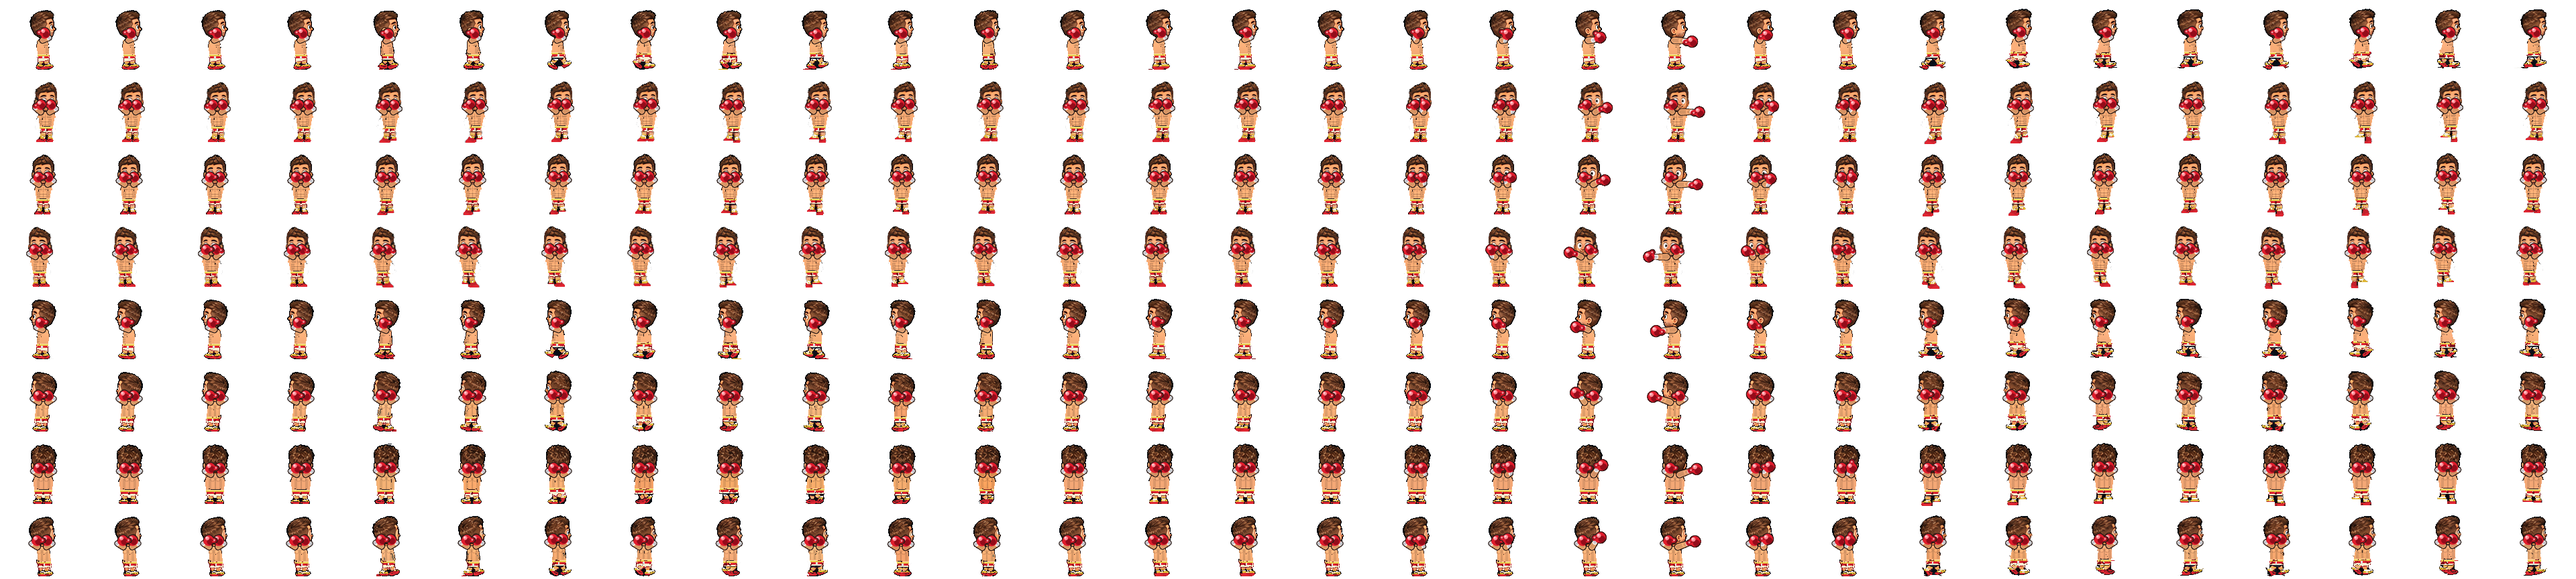
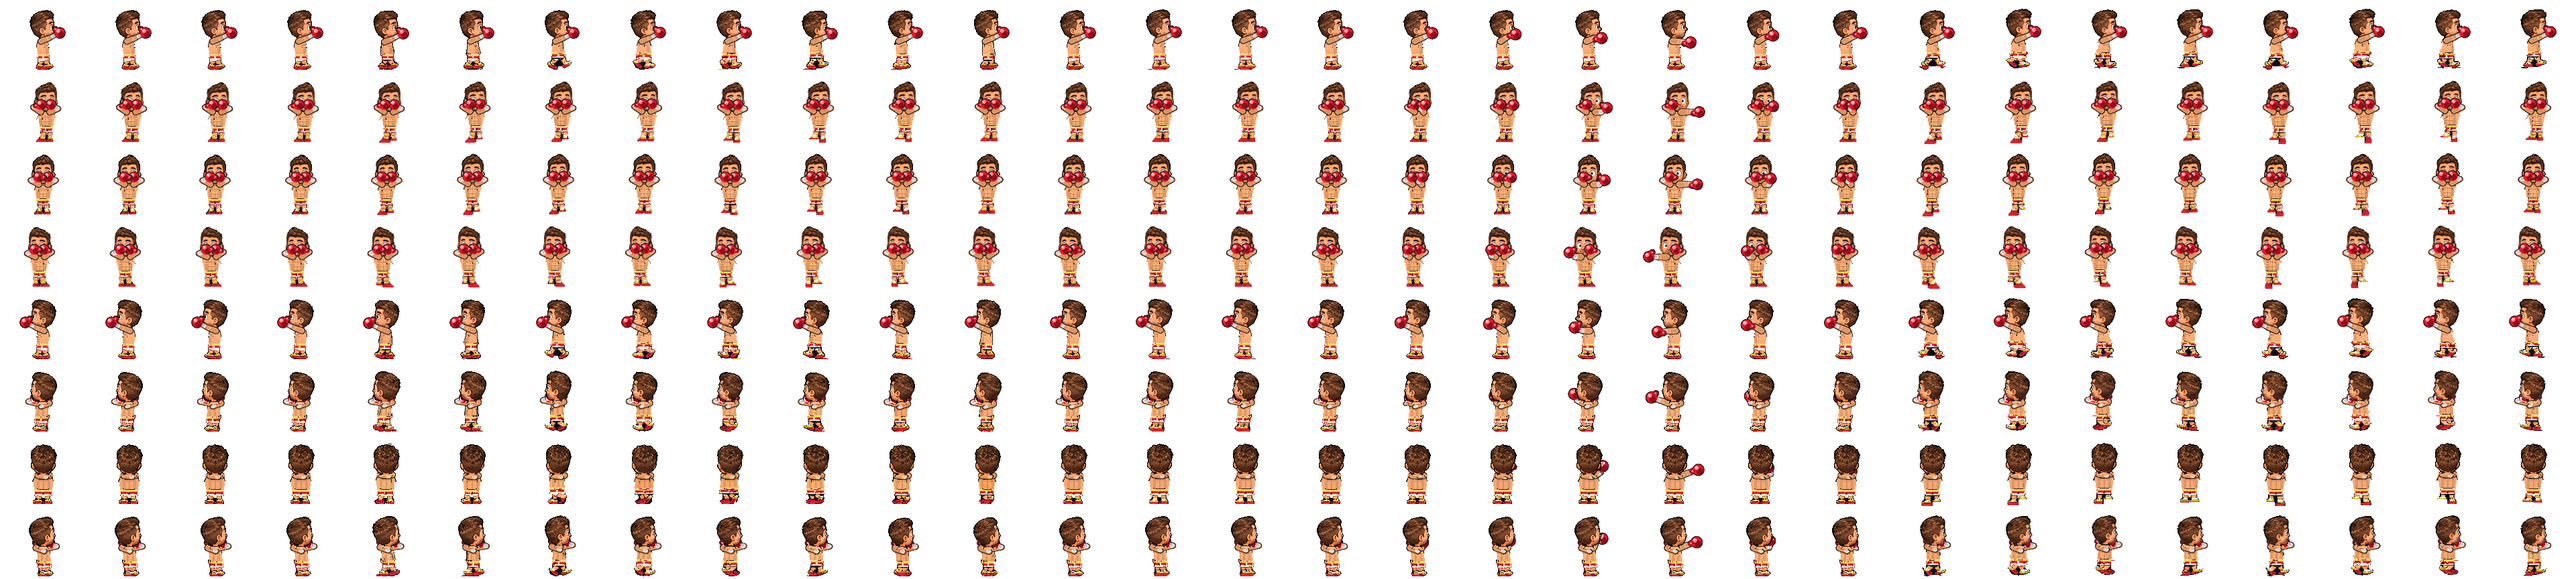
Boxer James: side gloves past nose; back gloves under head
E/W: fist sits in front of the face past the nose with the forearm
running forward from the chest. N/NE/NW: guard gloves composite behind
the head so hair occludes them (elbows + optional NE/NW side peek).
Applies to idle/walk/run and jab start/end. Consistency check now
rejects glove∩hair on those back frames.

diff --git a/phaser-tag-client/tools/make_boxer_skin.py b/phaser-tag-client/tools/make_boxer_skin.py
@@ -16,7 +16,9 @@ Composite onto James's real base frame (do NOT redraw the body):
     single complete shaded arm from each shoulder. Idle / walk / breathe /
     run: tight peek-a-boo guard — both gloves side-by-side covering mouth/
     chin just below the eyes (eyes + upper face stay visible); elbows
-    tucked; side views show the near arm only; back shows elbows/arms up;
+    tucked; side views show the near glove IN FRONT of the face (past
+    the nose); back views draw gloves behind the head (elbows visible,
+    optional side peek on NE/NW);
   * tag is a 6-frame JAB: near arm snaps out from the high guard and
     returns to it. Far glove stays in guard. NW mirrors NE.
 
@@ -599,24 +601,46 @@ def glove_radius(g):
 def shoulder(g, direction, side):
     # Slightly raised for peek-a-boo.
     if direction in PROFILE:
-        return (g.head_cx - PROFILE[direction] * 0.2, g.neck + 2.2)
+        # Sit the shoulder on the chest (slightly rear of center) so the
+        # forearm clearly runs forward to a glove in front of the face.
+        return (g.head_cx - PROFILE[direction] * 2.5, g.neck + 3.5)
+    if direction in BACK or direction == "N":
+        # Flare shoulders so elbows read outside the torso when hands are
+        # tucked under the head (forward guard from behind).
+        return (g.head_cx + (side or 1) * 9.0, g.neck + 3.5)
     return (g.head_cx + (side or 1) * 6.6, g.neck + 2.2)
 
 
 def guard_hand(sh, direction, side, bounce=0.0, gr=8.0, g=None):
-    """Tight peek-a-boo: gloves side-by-side covering mouth/chin; eyes clear."""
-    # Mouth ≈ neck-9; glove top (hand_y - gr) sits just under the eyes.
+    """Tight peek-a-boo: gloves cover mouth/chin; eyes clear.
+
+    Profile: glove in FRONT of the face, past the nose on the facing side.
+    Back (N/NE/NW): hands sit at the mouth (under the head); the head layer
+    is stamped over them so only elbows / a side peek remain.
+    """
     neck = g.neck if g is not None else sh[1] - 2.2
     cx = g.head_cx if g is not None else sh[0]
+    hw = g.head_hw if g is not None else 18.0
     mouth_y = neck - 9.0 + bounce * 0.35
     s = side or 1
     if direction in PROFILE:
         fx = PROFILE[direction]
-        # Near glove covers the mouth from the side, a touch forward of the face.
-        return (cx + fx * (gr * 0.25 + 1.0), mouth_y)
-    if direction in BACK or direction == "N":
-        # Back: gloves beside the head at face height so elbows/forearms read.
-        return (cx + s * (gr * 0.70 + 1.2), mouth_y + 1.0)
+        # Nose tip ≈ facing edge of the head; put the fist past it so the
+        # glove clearly protrudes forward of the mouth/nose.
+        tip = cx + fx * (hw * 1.05)
+        return (tip + fx * (gr * 0.55), mouth_y)
+    if direction == "N":
+        # Deep under the skull — fully occluded; elbows flare from shoulders.
+        return (cx + s * (gr * 0.12), mouth_y + 3.5)
+    if direction in BACK:
+        # Chin / cheek height (wider head) so the crown does not fight the gloves.
+        chin_y = neck - 4.0 + bounce * 0.35
+        facing = BACK[direction]
+        if s == facing:
+            # Near glove tucked under the cheek; a sliver may survive past the
+            # face edge after the head stamp.
+            return (cx + s * (hw * 0.55), chin_y)
+        return (cx + s * (gr * 0.15), chin_y + 1.0)
     # Front / ¾: fists nearly touching in front of the mouth.
     face_bias = FRONT.get(direction, 0) * 1.0
     return (cx + s * (gr * 0.90) + face_bias, mouth_y)
@@ -708,8 +732,9 @@ def glove_parts(sh, elbow, hand, skin, gr, jabbing=False):
 
 
 def draw_arm(size, sh, hand, skin, gr, jabbing=False, head_cx=None):
-    # Slightly longer limbs so the high guard reaches mouth level with tucked elbows.
-    L1, L2 = 10.5, 10.0
+    # Long enough for a forward profile guard (fist past the nose) and a
+    # high peek-a-boo on the front views.
+    L1, L2 = 13.5, 12.5
     e1 = ik(sh, hand, L1, L2, 1)
     e2 = ik(sh, hand, L1, L2, -1)
     cx = head_cx if head_cx is not None else sh[0]
@@ -855,6 +880,67 @@ def erase_base_arms(f, g):
     return out
 
 
+
+def head_occluder_mask(rc, g):
+    """Head/hair occlusion for back-view gloves held in front of the face.
+
+    Opaque head silhouette, grown, plus a filled ellipse over the skull so
+    gloves beside a tapered crown still hide under hair.
+    """
+    h, w = rc.shape[:2]
+    yy = np.arange(h)[:, None]
+    xx = np.arange(w)[None, :]
+    sil = (rc[..., 3] >= 128) & (yy <= g.neck + 2)
+    sil = grow(sil, np.ones((h, w), dtype=bool), 2) & (yy <= g.neck + 5)
+    top = max(0, int(g.neck) - 38)
+    cy = (top + g.neck) * 0.52
+    rx = max(g.head_hw * 1.15, 18.0)
+    ry = max((g.neck - top) * 0.58, 15.0)
+    ellipse = ((xx - g.head_cx) / rx) ** 2 + ((yy - cy) / ry) ** 2 <= 1.0
+    ellipse &= yy <= g.neck + 4
+    return sil | ellipse
+
+
+def stamp_head_over(res, rc, g, direction=None):
+    """Put James's head back on top so back-view gloves sit behind it.
+
+    Restores opaque head/hair over anything under it, then clears only
+    leftover glove/cuff pixels that still sit inside the head's span
+    (arms/elbows outside the hair are kept so jab forearms stay connected).
+    """
+    head = head_occluder_mask(rc, g)
+    out = res.copy()
+    opaque = rc[..., 3] >= 128
+    # Restore James's real head/hair wherever the base was opaque.
+    out[head & opaque] = rc[head & opaque]
+
+    h, w = res.shape[:2]
+    yy = np.arange(h)[:, None]
+    xx = np.arange(w)[None, :]
+    rgb = out[..., :3].astype(int)
+    a = out[..., 3]
+    glove = (a >= 200) & (rgb[..., 0] > 160) & (rgb[..., 1] < 110) & (
+        rgb[..., 0] > rgb[..., 1] + 60
+    )
+    cuff = (a >= 200) & (rgb.sum(-1) / 3.0 > 200) & (yy < g.neck + 2) & (yy > g.neck - 30)
+    band = (yy <= g.neck + 1) & (yy >= g.neck - 36)
+    half = g.head_hw * 1.05
+    span = (xx >= g.head_cx - half) & (xx <= g.head_cx + half)
+    # NE/NW: leave a peek strip past the facing face edge.
+    if direction in ("NE", "NW"):
+        facing = BACK[direction]
+        if facing > 0:
+            span &= xx <= g.head_cx + g.head_hw * 0.90
+        else:
+            span &= xx >= g.head_cx - g.head_hw * 0.90
+    # Also clear glove/cuff in the occluder but outside opaque hair (crown gap).
+    hide = (band & span & (glove | cuff)) | (head & ~opaque & (glove | cuff))
+    restore = hide & opaque
+    out[restore] = rc[restore]
+    out[hide & ~opaque] = 0
+    return out
+
+
 def boxify(frame, direction, anim, col, meta):
     """Composite Boxer onto James: erase base arms, recolor tee/shorts/shoes,
     then draw complete shoulder→glove arms. Body silhouette is never redrawn."""
@@ -912,6 +998,11 @@ def boxify(frame, direction, anim, col, meta):
 
     res = to_u8(out)
     res[res[..., 3] < 8] = 0
+    # Back views: gloves are held in FRONT of the face, so the head must
+    # occlude them. Stamp James's head/hair back on top (elbows below the
+    # neck stay visible; NE/NW may keep a side peek past the head edge).
+    if direction in BACK or direction == "N":
+        res = stamp_head_over(res, rc, g, direction)
     comps = components8(res[..., 3] > 40)
     if comps:
         big = max(comps, key=lambda c: c.sum())
@@ -919,6 +1010,9 @@ def boxify(frame, direction, anim, col, meta):
             if c is not big and c.sum() < 30:
                 res[c] = 0
     res = solidify(res, (int(g.neck), int(g.hem) - 1))
+    # Solidify can re-bleed glove into the skull — re-stamp head after it.
+    if direction in BACK or direction == "N":
+        res = stamp_head_over(res, rc, g, direction)
     # Final trunk scrub after gloves/ARM_LINE so shorts stay red/gold/white.
     yy = np.arange(h)[:, None]
     trunk_bot = min(int(g.hem) - 4, int(waist) + 12)

diff --git a/phaser-tag-client/tools/check_boxer_consistency.py b/phaser-tag-client/tools/check_boxer_consistency.py
@@ -4,7 +4,7 @@ across standing frames within a direction; head ratio chibi-like; NW tag
 mirrors NE (jab extends opposite ways); no hanging base-arm skin outside
 the glove-arm masks at hip/side level; idle/walk/run high peek-a-boo guard
 (gloves cover mouth, eyes clear); bare torso is peach skin (not tee grey)
-matching face tone."""
+matching face tone; no glove pixels over the head on N/NE/NW."""
 import json
 from pathlib import Path
 
@@ -289,7 +289,15 @@ for r, d in enumerate(m["directions"]):
         al = f[..., 3]
         glove = is_glove(rgb, al)
         # Ignore shoe/trunk red: only gloves in the upper 70% of the frame.
-        glove = glove & (np.arange(fh)[:, None] < int(fh * 0.72))
+        glove_upper = glove & (np.arange(fh)[:, None] < int(fh * 0.72))
+        # Back views: gloves sit behind the head, so only elbows / a side peek
+        # remain visible — do not require a full high-guard glove blob up top.
+        if d in ("N", "NE", "NW"):
+            if glove_upper.sum() + glove.sum() < 30:
+                print(f"{d} col {c}: back-guard gloves/arms missing ({glove.sum()} px)")
+                bad += 1
+            continue
+        glove = glove_upper
         if glove.sum() < 20:
             print(f"{d} col {c}: high-guard gloves missing in upper frame ({glove.sum()} px)")
             bad += 1
@@ -330,6 +338,77 @@ for r, d in enumerate(m["directions"]):
             bad += 1
         if grey_n > 12:
             print(f"{d} col {c}: leftover tee-grey on torso ({grey_n} px)")
+            bad += 1
+
+
+# Back views (N/NE/NW): gloves are in front of the face, so the head must
+# occlude them — no glove pixels over the interior of the hair on idle/walk/
+# run and jab start/end (mid-jab may extend past the head).
+anims = m.get("animations", {})
+idle_r = range(anims.get("idle", {}).get("start", 0),
+               anims.get("idle", {}).get("start", 0) + anims.get("idle", {}).get("count", 4))
+walk_r = range(anims["walk"]["start"], anims["walk"]["start"] + anims["walk"]["count"]) if "walk" in anims else range(0)
+run_r = range(anims["run"]["start"], anims["run"]["start"] + anims["run"]["count"]) if "run" in anims else range(0)
+tag = anims.get("tag") or anims.get("jab")
+tag_cols = []
+if tag:
+    tag_cols = [tag["start"], tag["start"] + tag["count"] - 1]
+check_cols = set(idle_r) | set(walk_r) | set(run_r) | set(tag_cols)
+
+for r, d in enumerate(m["directions"]):
+    if d not in ("N", "NE", "NW"):
+        continue
+    for c in range(im.shape[1] // fw):
+        if c not in check_cols:
+            continue
+        f = im[r * fh:(r + 1) * fh, c * fw:(c + 1) * fw]
+        a = f[..., 3] >= 200
+        if not a.any():
+            continue
+        rgb = f[..., :3].astype(int)
+        # Strict glove (exclude peach face/ear skin that loosely matches red).
+        rr, gch, bb = rgb[..., 0], rgb[..., 1], rgb[..., 2]
+        glove = (
+            (f[..., 3] > 100)
+            & (rr > 180)
+            & (gch < 80)
+            & (rr - gch > 100)
+            & (rr - bb > 90)
+        )
+        if not glove.any():
+            continue
+        # Hair/skull interior only (brown), not the whole opaque bbox — edge
+        # peek past the face on NE/NW is allowed.
+        neck_y = pad + 52
+        yy = np.arange(fh)[:, None]
+        hair = (
+            a
+            & (yy <= neck_y)
+            & (yy >= pad + 14)
+            & (rgb[..., 0] < 140)
+            & (rgb[..., 1] < 110)
+            & (rgb[..., 2] < 90)
+            & (rgb[..., 0] > 30)
+        )
+        if not hair.any():
+            continue
+        # Inset so a side peek does not fail the check. On NE/NW the near
+        # glove may legitimately peek past the facing face edge.
+        hy, hx = np.nonzero(hair)
+        lo, hi = int(hx.min()) + 4, int(hx.max()) - 3
+        if d == "NE":
+            hi = int(hx.max()) - 12  # facing east: allow peek on right
+        elif d == "NW":
+            lo = int(hx.min()) + 12  # facing west: allow peek on left
+        if lo >= hi:
+            continue
+        interior = np.zeros((fh, fw), dtype=bool)
+        interior[hy.min(): hy.max() + 1, lo:hi] = True
+        overlap = int((glove & interior & (yy <= neck_y)).sum())
+        # N: essentially zero; NE/NW may keep a small facing-side sliver.
+        limit = 2 if d == "N" else 16
+        if overlap > limit:
+            print(f"{d} col {c}: {overlap} glove px over head interior (want behind head)")
             bad += 1
 
 print("glove px median", {d: int(np.median(v)) for d, v in glove_counts.items()})
